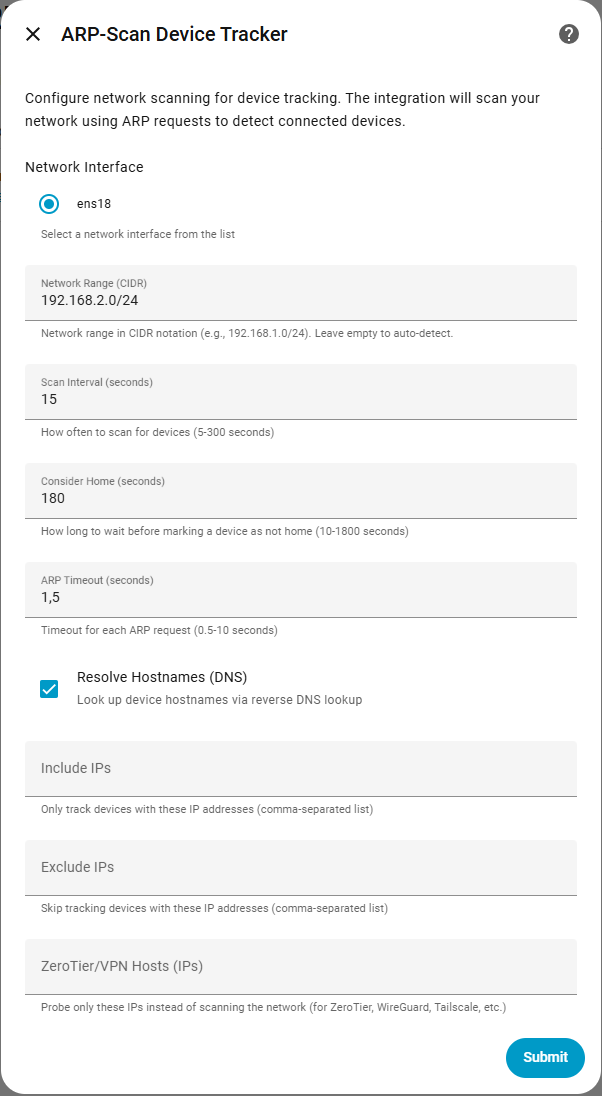
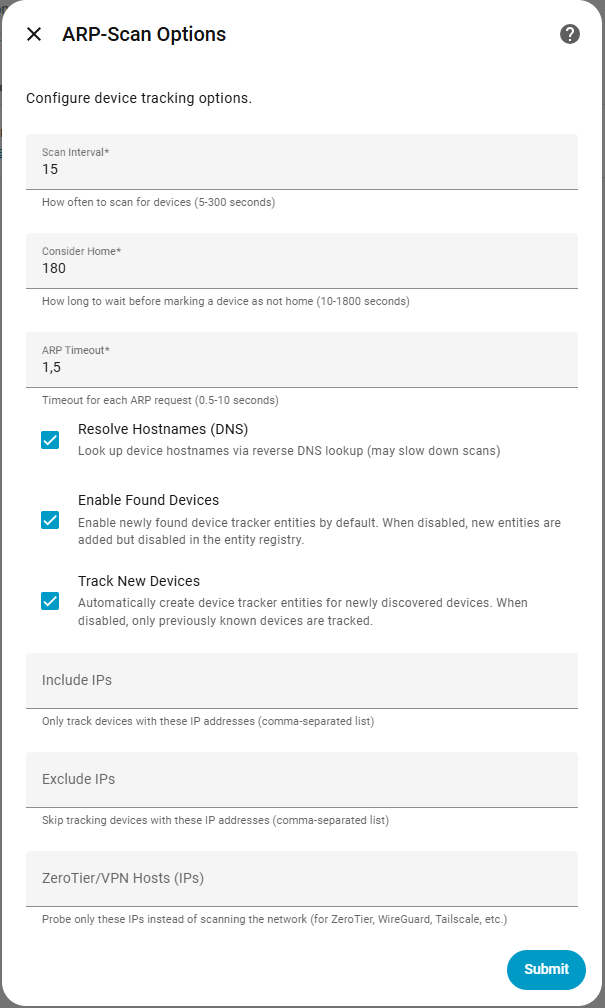
Added options

diff --git a/custom_components/arpscan_tracker/device_tracker.py b/custom_components/arpscan_tracker/device_tracker.py
@@ -23,9 +23,13 @@ from .const import (
     ATTR_MAC,
     ATTR_VENDOR,
     CONF_CONSIDER_HOME,
+    CONF_DEVICES_ENABLED,
     CONF_INTERFACE,
+    CONF_TRACK_NEW_DEVICES,
     DATA_COORDINATOR,
     DEFAULT_CONSIDER_HOME,
+    DEFAULT_DEVICES_ENABLED,
+    DEFAULT_TRACK_NEW_DEVICES,
     DOMAIN,
 )
 
@@ -46,6 +50,8 @@ async def async_setup_entry(
     if isinstance(consider_home, timedelta):
         consider_home = int(consider_home.total_seconds())
     interface = entry.data.get(CONF_INTERFACE, "unknown")
+    devices_enabled = entry.options.get(CONF_DEVICES_ENABLED, DEFAULT_DEVICES_ENABLED)
+    track_new_devices = entry.options.get(CONF_TRACK_NEW_DEVICES, DEFAULT_TRACK_NEW_DEVICES)
 
     # Track which devices we've already created entities for
     tracked_macs: set[str] = set()
@@ -73,6 +79,16 @@ async def async_setup_entry(
             )
             continue
 
+        # Update enabled/disabled state in registry based on config option
+        if devices_enabled and entity.disabled_by == er.RegistryEntryDisabler.INTEGRATION:
+            ent_reg.async_update_entity(entity.entity_id, disabled_by=None)
+            _LOGGER.info("Enabling device tracker %s (devices_enabled=True)", entity.entity_id)
+        elif not devices_enabled and entity.disabled_by is None:
+            ent_reg.async_update_entity(
+                entity.entity_id, disabled_by=er.RegistryEntryDisabler.INTEGRATION
+            )
+            _LOGGER.info("Disabling device tracker %s (devices_enabled=False)", entity.entity_id)
+
         if mac_formatted not in tracked_macs:
             tracked_macs.add(mac_formatted)
             restored_entities.append(
@@ -82,6 +98,7 @@ async def async_setup_entry(
                     consider_home=consider_home,
                     interface=interface,
                     entry_id=entry.entry_id,
+                    devices_enabled=devices_enabled,
                     restored_name=entity.original_name or entity.name,
                 )
             )
@@ -100,6 +117,10 @@ async def async_setup_entry(
     @callback
     def async_add_new_entities() -> None:
         """Add entities for newly discovered devices."""
+        if not track_new_devices:
+            _LOGGER.debug("Track new devices is disabled, skipping new entity creation")
+            return
+
         new_entities: list[ArpScanDeviceTracker] = []
 
         _LOGGER.debug("Checking for new entities: coordinator has %d devices, %d already tracked",
@@ -115,6 +136,7 @@ async def async_setup_entry(
                         consider_home=consider_home,
                         interface=interface,
                         entry_id=entry.entry_id,
+                        devices_enabled=devices_enabled,
                     )
                 )
                 _LOGGER.info("Creating NEW device tracker entity for MAC %s (IP: %s, hostname: %s)",
@@ -144,6 +166,7 @@ class ArpScanDeviceTracker(CoordinatorEntity, RestoreEntity, ScannerEntity):
         consider_home: int,
         interface: str,
         entry_id: str,
+        devices_enabled: bool = True,
         restored_name: str | None = None,
     ) -> None:
         """Initialize the device tracker."""
@@ -153,6 +176,7 @@ class ArpScanDeviceTracker(CoordinatorEntity, RestoreEntity, ScannerEntity):
         self._consider_home = consider_home
         self._interface = interface
         self._entry_id = entry_id
+        self._attr_entity_registry_enabled_default = devices_enabled
         self._last_seen: datetime | None = dt_util.utcnow() - timedelta(days=365)
 
         # Get initial device data

diff --git a/custom_components/arpscan_tracker/config_flow.py b/custom_components/arpscan_tracker/config_flow.py
@@ -18,6 +18,7 @@ from homeassistant.core import callback
 
 from .const import (
     CONF_CONSIDER_HOME,
+    CONF_DEVICES_ENABLED,
     CONF_EXCLUDE,
     CONF_HOSTS,
     CONF_INCLUDE,
@@ -26,10 +27,13 @@ from .const import (
     CONF_RESOLVE_HOSTNAMES,
     CONF_SCAN_INTERVAL,
     CONF_TIMEOUT,
+    CONF_TRACK_NEW_DEVICES,
     DEFAULT_CONSIDER_HOME,
+    DEFAULT_DEVICES_ENABLED,
     DEFAULT_RESOLVE_HOSTNAMES,
     DEFAULT_SCAN_INTERVAL,
     DEFAULT_TIMEOUT,
+    DEFAULT_TRACK_NEW_DEVICES,
     DOMAIN,
 )
 from .scanner import get_available_interfaces, get_default_interface, get_interface_network
@@ -140,6 +144,12 @@ class ArpScanConfigFlow(ConfigFlow, domain=DOMAIN):
                         CONF_RESOLVE_HOSTNAMES: user_input.get(
                             CONF_RESOLVE_HOSTNAMES, DEFAULT_RESOLVE_HOSTNAMES
                         ),
+                        CONF_DEVICES_ENABLED: user_input.get(
+                            CONF_DEVICES_ENABLED, DEFAULT_DEVICES_ENABLED
+                        ),
+                        CONF_TRACK_NEW_DEVICES: user_input.get(
+                            CONF_TRACK_NEW_DEVICES, DEFAULT_TRACK_NEW_DEVICES
+                        ),
                         CONF_INCLUDE: include_list,
                         CONF_EXCLUDE: exclude_list,
                         CONF_HOSTS: hosts_list,
@@ -177,6 +187,8 @@ class ArpScanConfigFlow(ConfigFlow, domain=DOMAIN):
                     vol.Coerce(float), vol.Range(min=0.5, max=10.0)
                 ),
                 vol.Optional(CONF_RESOLVE_HOSTNAMES, default=DEFAULT_RESOLVE_HOSTNAMES): bool,
+                vol.Optional(CONF_DEVICES_ENABLED, default=DEFAULT_DEVICES_ENABLED): bool,
+                vol.Optional(CONF_TRACK_NEW_DEVICES, default=DEFAULT_TRACK_NEW_DEVICES): bool,
                 vol.Optional(CONF_INCLUDE, default=""): str,
                 vol.Optional(CONF_EXCLUDE, default=""): str,
                 vol.Optional(CONF_HOSTS, default=""): str,
@@ -290,6 +302,12 @@ class ArpScanOptionsFlow(OptionsFlow):
                     CONF_RESOLVE_HOSTNAMES: user_input.get(
                         CONF_RESOLVE_HOSTNAMES, DEFAULT_RESOLVE_HOSTNAMES
                     ),
+                    CONF_DEVICES_ENABLED: user_input.get(
+                        CONF_DEVICES_ENABLED, DEFAULT_DEVICES_ENABLED
+                    ),
+                    CONF_TRACK_NEW_DEVICES: user_input.get(
+                        CONF_TRACK_NEW_DEVICES, DEFAULT_TRACK_NEW_DEVICES
+                    ),
                     CONF_INCLUDE: include_list,
                     CONF_EXCLUDE: exclude_list,
                     CONF_HOSTS: hosts_list,
@@ -323,6 +341,18 @@ class ArpScanOptionsFlow(OptionsFlow):
                     CONF_RESOLVE_HOSTNAMES,
                     default=self.config_entry.options.get(
                         CONF_RESOLVE_HOSTNAMES, DEFAULT_RESOLVE_HOSTNAMES
+                    ),
+                ): bool,
+                vol.Required(
+                    CONF_DEVICES_ENABLED,
+                    default=self.config_entry.options.get(
+                        CONF_DEVICES_ENABLED, DEFAULT_DEVICES_ENABLED
+                    ),
+                ): bool,
+                vol.Required(
+                    CONF_TRACK_NEW_DEVICES,
+                    default=self.config_entry.options.get(
+                        CONF_TRACK_NEW_DEVICES, DEFAULT_TRACK_NEW_DEVICES
                     ),
                 ): bool,
                 vol.Optional(

diff --git a/custom_components/arpscan_tracker/__init__.py b/custom_components/arpscan_tracker/__init__.py
@@ -118,9 +118,9 @@ async def async_setup_entry(hass: HomeAssistant, entry: ConfigEntry) -> bool:
 
         # Filter devices based on include/exclude lists
         result: dict[str, dict[str, Any]] = {}
-        _LOGGER.debug("Processing %d scanned devices (include_list=%s, exclude_list=%s)", 
+        _LOGGER.debug("Processing %d scanned devices (include_list=%s, exclude_list=%s)",
                       len(devices), include_list, exclude_list)
-        
+
         for device in devices:
             ip = device["ip"]
             mac = device["mac"]
@@ -128,7 +128,7 @@ async def async_setup_entry(hass: HomeAssistant, entry: ConfigEntry) -> bool:
             # Apply include filter (if specified, only include listed IPs)
             if include_list:
                 if ip not in include_list:
-                    _LOGGER.debug("Device %s (%s) not in include list %s, skipping", 
+                    _LOGGER.debug("Device %s (%s) not in include list %s, skipping",
                                   ip, mac, include_list)
                     continue
                 else:
@@ -147,7 +147,7 @@ async def async_setup_entry(hass: HomeAssistant, entry: ConfigEntry) -> bool:
                           ip, mac, device.get("hostname"), device.get("vendor"))
             result[mac] = device
 
-        _LOGGER.debug("ARP scan returned %d devices after filtering: %s", 
+        _LOGGER.debug("ARP scan returned %d devices after filtering: %s",
                       len(result), list(result.keys()))
         return result
 

diff --git a/custom_components/arpscan_tracker/scanner.py b/custom_components/arpscan_tracker/scanner.py
@@ -208,7 +208,7 @@ class ArpScanner:
             Tuple of (ip_address, mac_address) or (None, None) if not available
         """
         try:
-            from scapy.all import get_if_addr, get_if_hwaddr  # type: ignore[attr-defined]
+            from scapy.all import get_if_addr, get_if_hwaddr
 
             ip_addr = get_if_addr(interface)
             mac_addr = get_if_hwaddr(interface)
@@ -223,7 +223,8 @@ class ArpScanner:
 
                     network = IPv4Network(network_str)
                     # Use the interface's actual IP (first host in network)
-                    ip_addr = str(next(network.hosts(), None))
+                    first_host = next(iter(network.hosts()), None)
+                    ip_addr = str(first_host) if first_host else "0.0.0.0"
 
             return (
                 ip_addr if ip_addr and ip_addr != "0.0.0.0" else None,

diff --git a/custom_components/arpscan_tracker/const.py b/custom_components/arpscan_tracker/const.py
@@ -14,6 +14,8 @@ CONF_EXCLUDE: Final = "exclude"
 CONF_TIMEOUT: Final = "timeout"
 CONF_RESOLVE_HOSTNAMES: Final = "resolve_hostnames"
 CONF_HOSTS: Final = "hosts"
+CONF_DEVICES_ENABLED: Final = "devices_enabled"
+CONF_TRACK_NEW_DEVICES: Final = "track_new_devices"
 
 # Defaults
 DEFAULT_SCAN_INTERVAL: Final = 15  # seconds
@@ -22,6 +24,8 @@ DEFAULT_TIMEOUT: Final = 1.5  # seconds
 DEFAULT_INTERFACE: Final = None  # Auto-detect
 DEFAULT_NETWORK: Final = None  # Auto-detect from interface
 DEFAULT_RESOLVE_HOSTNAMES: Final = True
+DEFAULT_DEVICES_ENABLED: Final = True
+DEFAULT_TRACK_NEW_DEVICES: Final = True
 
 # Platforms
 PLATFORMS: Final = ["device_tracker"]

diff --git a/README.md b/README.md
@@ -81,6 +81,8 @@ Alternatively:
 | **Consider Home** | 180 seconds | Time before marking device as not_home (10-1800) |
 | **ARP Timeout** | 1.0 seconds | Timeout for each ARP request (0.5-10) |
 | **Resolve Hostnames** | Enabled | Look up device hostnames via reverse DNS |
+| **Enable Found Devices** | Enabled | Enable newly found device tracker entities by default |
+| **Track New Devices** | Enabled | Automatically create entities for newly discovered devices |
 | **Specific Hosts** | Empty | Probe only these IPs (for ZeroTier/VPN networks) |
 | **Include IPs** | Empty | Only track these IP addresses (comma-separated) |
 | **Exclude IPs** | Empty | Skip tracking these IP addresses (comma-separated) |
@@ -105,7 +107,8 @@ After initial setup, you can modify settings via:
 > [!NOTE]
 > All device trackers are separate devices—they aren't linked to ARP-Scanner instance by design.
 > If you see devices linked to the ARP-Scanner in the UI, it's Home Assistant linking other known devices because of MAC address matches.
-> All found devices are disabled by default, so you need to enable them in the Home Assistant UI.
+> When **Enable Found Devices** is off, new device trackers are added but disabled by default—enable them in the Home Assistant UI.
+> When **Track New Devices** is off, only previously known devices are tracked—new discoveries are ignored.
 
 ## Migration from YAML
 

diff --git a/CHANGELOG.md b/CHANGELOG.md
@@ -1,5 +1,11 @@
 ## Changelog
 
+### 2.0.9
+
+- Added **Enable Found Devices** option to enable/disable all device tracker entities
+- Added **Track New Devices** option to control auto-creation of entities for newly discovered devices
+- Fixed mypy type errors in scanner.py
+
 ### 2.0.8
 
 - Added ZeroTier/VPN Hosts option to probe specific IPs instead of network scanning
